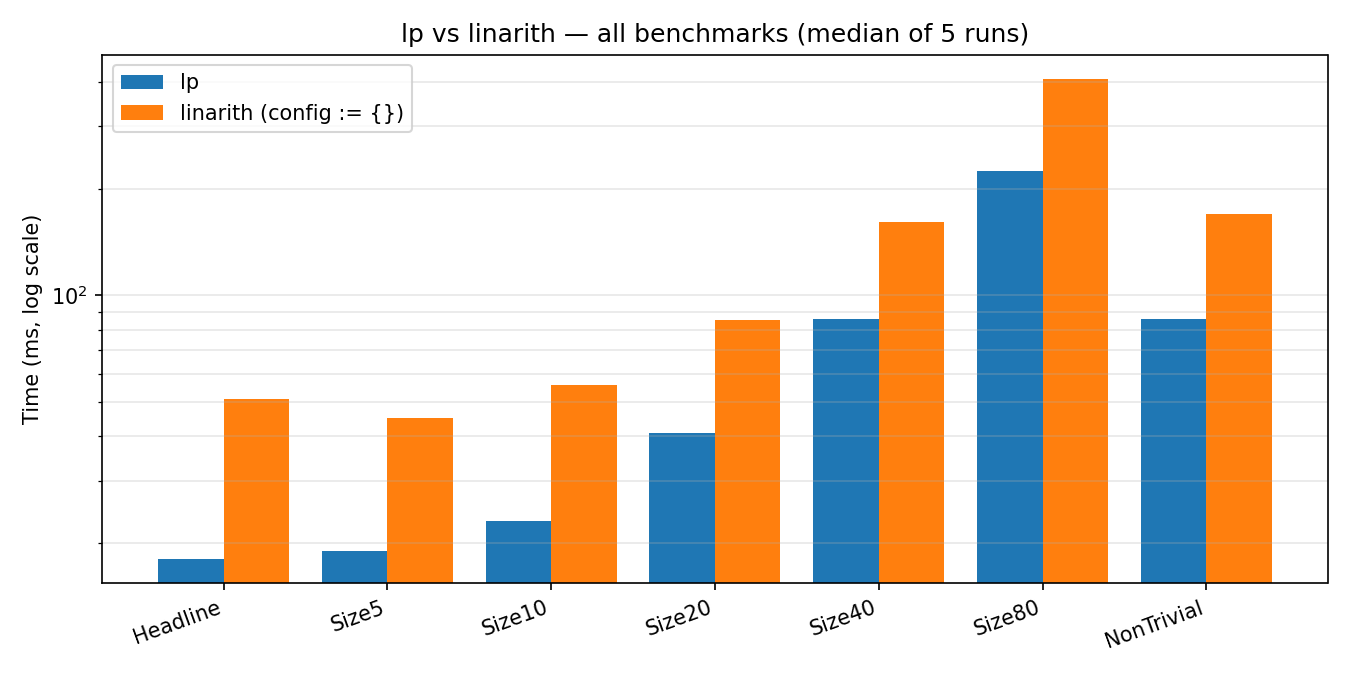
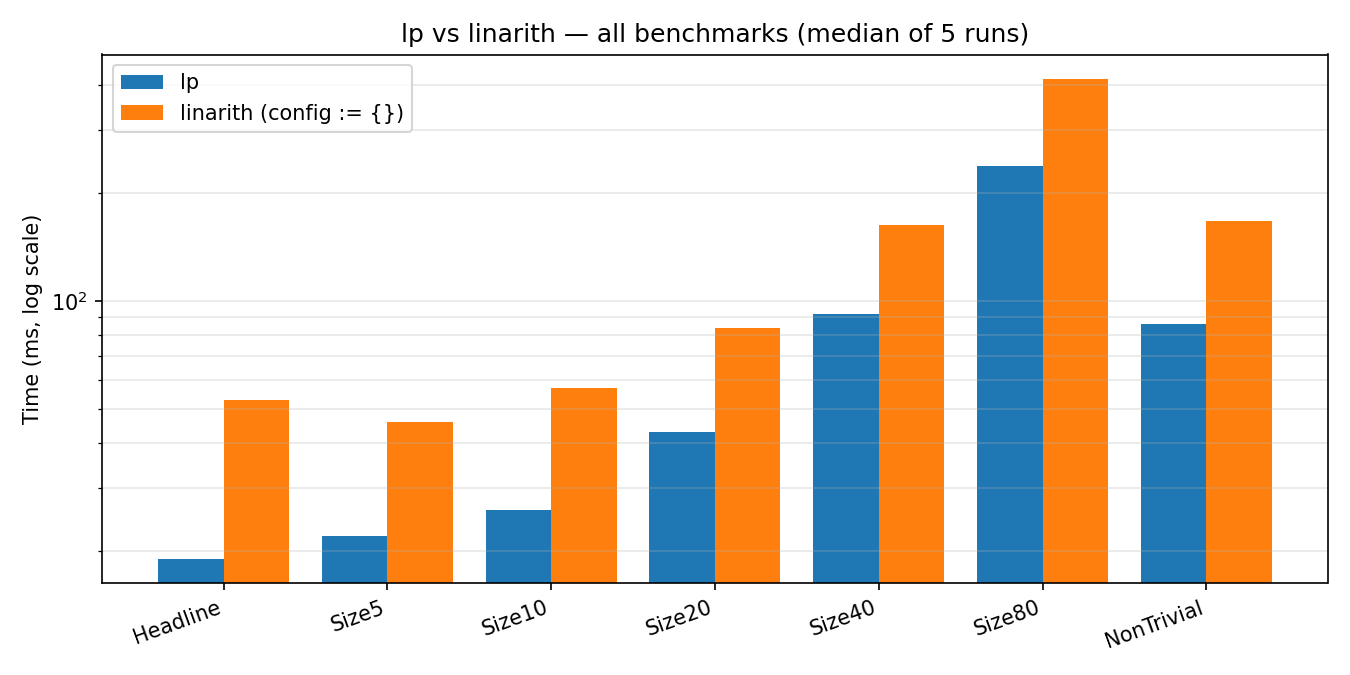
feat: run the benchmark on the carrier `lp` engine (v4.31) + multi-carrier sweep (#1)
Re-pin `Soplex` to the carrier-parametrized `lp` engine ported to Lean
v4.31.0-rc1 (kim-em/soplex `bump-v4.31-carrier`, bundling kim-em/lp-tactic
`bump-v4.31-carrier`), so both benchmark families run on a single toolchain and
engine. The engine compiled on v4.31 with no source changes.

Refresh the `Rat` lp-vs-linarith numbers (unchanged within noise — the carrier
engine keeps `Rat`'s `Q` fast-path) and add a per-carrier box-LP sweep
(`Rat`/`Real`/`Int`/`Dyadic`/`Nat`) on identical 2n-row goals. The native
computable carriers (`Nat`, `Int`, `Dyadic`) are faster than the hand-optimized
`Rat` baseline (0.65-0.90x) — they render coefficients as their own
kernel-reducible literals, so closed leaf arithmetic closes by `Eq.refl` with no
proof term; `Nat` is fastest. `Real` pays a flat ~1.6-2.3x (it is non-computable,
so coefficients render as `ofRat r` and each needs a faithfulness bridge proof).

Adds the per-carrier `bench/Bench*.lean` sources, `results/multicarrier5.csv`,
three multi-carrier graphs, `scripts/plot_multicarrier.py`, and a README section;
regenerates the lp-vs-linarith graphs from the refreshed `median5.csv`.

diff --git a/scripts/plot_multicarrier.py b/scripts/plot_multicarrier.py
@@ -1,0 +1,113 @@
+#!/usr/bin/env python3
+"""Plot the multi-carrier `lp` box-LP sweep (v4.31.0-rc1 unified CarrierMethods engine).
+
+Input: results/multicarrier5.csv  (carrier,size,lp_ms,linarith_ms)
+Outputs:
+    results/multicarrier-sweep.png  — log-log size vs ms, one line per carrier + linarith
+    results/multicarrier-bars.png   — grouped bars: lp ms per carrier per size
+    results/multicarrier-ratio.png  — grouped bars: carrier/Rat ms ratio per size
+"""
+import csv
+from pathlib import Path
+import matplotlib.pyplot as plt
+
+ROOT = Path(__file__).resolve().parent.parent
+RESULTS = ROOT / "results"
+CSV_PATH = RESULTS / "multicarrier5.csv"
+
+# Carrier draw order + colours (Rat is the baseline).
+CARRIERS = ["Nat", "Int", "Dyadic", "Rat", "Real"]
+COLORS = {"Nat": "#2ca02c", "Int": "#1f77b4", "Dyadic": "#17becf",
+          "Rat": "#000000", "Real": "#d62728", "linarith": "#7f7f7f"}
+KIND = {"Nat": "comm semiring (no neg)", "Int": "comm ring", "Dyadic": "comm ring (no inv)",
+        "Rat": "field (Q fast-path)", "Real": "field (ofRat bridge)"}
+
+
+def load():
+    lp = {c: {} for c in CARRIERS}
+    lin = {}
+    sizes = set()
+    with CSV_PATH.open() as f:
+        rd = csv.DictReader(f)
+        for r in rd:
+            c, n = r["carrier"], int(r["size"])
+            sizes.add(n)
+            if r["lp_ms"]:
+                lp.setdefault(c, {})[n] = float(r["lp_ms"])
+            if r["linarith_ms"]:
+                lin[n] = float(r["linarith_ms"])
+    return lp, lin, sorted(sizes)
+
+
+def plot_sweep(lp, lin, sizes):
+    plt.figure(figsize=(8, 5.5))
+    for c in CARRIERS:
+        ys = [lp[c][n] for n in sizes]
+        plt.plot(sizes, ys, "o-", color=COLORS[c], linewidth=2,
+                 label=f"lp / {c} — {KIND[c]}")
+    if lin:
+        plt.plot(sizes, [lin[n] for n in sizes], "s--", color=COLORS["linarith"],
+                 linewidth=1.6, label="linarith / Rat")
+    plt.xscale("log"); plt.yscale("log")
+    plt.xticks(sizes, [str(s) for s in sizes])
+    plt.gca().get_xaxis().set_major_formatter(plt.matplotlib.ticker.ScalarFormatter())
+    plt.xlabel("box-LP size n  (variables; 2n constraints)")
+    plt.ylabel("tactic execution (ms, median-of-5)")
+    plt.title("lp across carriers — one unified engine  (Lean v4.31.0-rc1)")
+    plt.legend(fontsize=8, loc="upper left")
+    plt.grid(True, which="both", alpha=0.3)
+    plt.tight_layout()
+    out = RESULTS / "multicarrier-sweep.png"
+    plt.savefig(out, dpi=130); plt.close()
+    print("wrote", out)
+
+
+def plot_bars(lp, sizes):
+    import numpy as np
+    plt.figure(figsize=(9, 5.5))
+    x = np.arange(len(sizes))
+    w = 0.16
+    for i, c in enumerate(CARRIERS):
+        ys = [lp[c][n] for n in sizes]
+        plt.bar(x + (i - 2) * w, ys, w, color=COLORS[c], label=c)
+    plt.xticks(x, [f"Size{n}" for n in sizes])
+    plt.ylabel("lp tactic execution (ms, median-of-5)")
+    plt.title("lp per-carrier box-LP timing  (Lean v4.31.0-rc1)")
+    plt.legend(fontsize=9)
+    plt.grid(True, axis="y", alpha=0.3)
+    plt.tight_layout()
+    out = RESULTS / "multicarrier-bars.png"
+    plt.savefig(out, dpi=130); plt.close()
+    print("wrote", out)
+
+
+def plot_ratio(lp, sizes):
+    import numpy as np
+    others = ["Nat", "Int", "Dyadic", "Real"]
+    plt.figure(figsize=(9, 5.5))
+    x = np.arange(len(sizes))
+    w = 0.2
+    for i, c in enumerate(others):
+        ys = [lp[c][n] / lp["Rat"][n] for n in sizes]
+        plt.bar(x + (i - 1.5) * w, ys, w, color=COLORS[c], label=c)
+    plt.axhline(1.0, color="black", linewidth=1, linestyle="--", label="Rat baseline")
+    plt.xticks(x, [f"Size{n}" for n in sizes])
+    plt.ylabel("lp time relative to Rat  (lower = faster)")
+    plt.title("Native computable carriers beat the Rat baseline; Real pays the ofRat bridge")
+    plt.legend(fontsize=9)
+    plt.grid(True, axis="y", alpha=0.3)
+    plt.tight_layout()
+    out = RESULTS / "multicarrier-ratio.png"
+    plt.savefig(out, dpi=130); plt.close()
+    print("wrote", out)
+
+
+def main():
+    lp, lin, sizes = load()
+    plot_sweep(lp, lin, sizes)
+    plot_bars(lp, sizes)
+    plot_ratio(lp, sizes)
+
+
+if __name__ == "__main__":
+    main()

diff --git a/README.md b/README.md
@@ -11,7 +11,8 @@ for the lp announcement post.
 
 ## Versions pinned
 
-- `Soplex`: kim-em/soplex `d1b3dad` (`bump-v4.31.0-rc1` branch)
+- `Soplex`: kim-em/soplex `b22aceb` (`main`), bundling the
+  carrier-parametrized `lp` engine (kim-em/lp-tactic `main`)
 - `Mathlib`: kim-em/mathlib4 `7a00f329` (linarith with the syntactic
   atom-cache improvement from
   [PR #40110](https://github.com/leanprover-community/mathlib4/pull/40110))
@@ -67,21 +68,23 @@ elaboration overhead (cache warmth, etc.) is matched between them.
 
 ## Results
 
-Median of 5 runs, M1 MacBook, `v4.31.0-rc1`, soplex `d1b3dad`, mathlib at
-PR #40110 head:
+Median of 5 runs, M1 MacBook, `v4.31.0-rc1`, soplex `b22aceb` (main, carrier engine),
+mathlib at PR #40110 head:
 
 | Benchmark   | `by lp` | `by linarith (config := {})` | ratio (lin/lp) |
 |-------------|--------:|-----------------------------:|---------------:|
-| Headline    |   18 ms |                        51 ms |          2.83× |
-| Size5       |   19 ms |                        45 ms |          2.37× |
-| Size10      |   23 ms |                        56 ms |          2.43× |
-| Size20      |   41 ms |                        85 ms |          2.07× |
-| Size40      |   86 ms |                       161 ms |          1.87× |
-| Size80      |  225 ms |                       409 ms |          1.82× |
-| NonTrivial  |   86 ms |                       170 ms |          1.98× |
+| Headline    |   19 ms |                        53 ms |          2.79× |
+| Size5       |   22 ms |                        46 ms |          2.09× |
+| Size10      |   26 ms |                        57 ms |          2.19× |
+| Size20      |   43 ms |                        84 ms |          1.95× |
+| Size40      |   92 ms |                       163 ms |          1.77× |
+| Size80      |  237 ms |                       417 ms |          1.76× |
+| NonTrivial  |   86 ms |                       167 ms |          1.94× |
 
-Geometric mean speedup: **~2.2×** in lp's favour. The lead is widest on
-the small/headline problems (2.8×) and narrows toward 1.8× at n=80.
+Geometric mean speedup: **~2.0×** in lp's favour. The lead is widest on
+the small/headline problems (2.8×) and narrows toward 1.8× at n=80. `lp` runs
+on the carrier-parametrized engine here; its `Rat` path keeps the original `Q`
+fast-path, so these numbers match the pre-generalization engine within noise.
 
 ![Size sweep, log-log](results/size-sweep.png)
 
@@ -90,6 +93,55 @@ the small/headline problems (2.8×) and narrows toward 1.8× at n=80.
 ![Speedup ratios](results/ratios.png)
 
 Reproduce: `./scripts/bench.sh 5 && python3 scripts/plot.py`.
+
+## Multi-carrier sweep (unified `CarrierMethods` engine)
+
+The `lp` tactic was generalized from a `Rat`-only discharger to a single
+carrier-parametrized engine that proves the **same ℚ-Farkas implications**
+over a family of ordered carriers: `Rat` (field), `Real` (field, via Mathlib),
+`Int` (comm ring), `Dyadic` (comm ring, no inverses), and `Nat` (comm
+semiring, no negation). The ℚ LP sent to SoPlex is identical across carriers;
+only the reconstructed proof term differs. (No integer-cut/integrality
+reasoning — that stays with `omega`/`cutsat`; `lp` proves ℚ-valid implications
+only.)
+
+The key performance question: does generalization cost the `Rat` baseline
+anything, and how do the native computable carriers compare? Same box-LP
+shape as `Size{5..80}` above, identical 2n-row structure across carriers,
+median-of-5, same `v4.31.0-rc1` toolchain and carrier engine as the
+`lp`-vs-`linarith` table above:
+
+| size | Nat | Int | Dyadic | Rat | Real | linarith (Rat) |
+|-----:|----:|----:|-------:|----:|-----:|---------------:|
+| 5    | 13  | 15  | 14     | 20  | 35   | 45 |
+| 10   | 12  | 13  | 14     | 17  | 39   | 39 |
+| 20   | 25  | 27  | 28     | 35  | 73   | 66 |
+| 40   | 64  | 69  | 69     | 86  | 153  | 140 |
+| 80   | 190 | 205 | 207    | 229 | 381  | 380 |
+
+Reading:
+
+- **The native computable carriers (`Nat`, `Int`, `Dyadic`) are *faster*
+  than the hand-optimized `Rat` baseline** — 0.65–0.90×. They render
+  coefficients as their own kernel-reducible literals, so per-leaf
+  arithmetic closes by `Eq.refl` with no proof term at all; `Nat` is fastest
+  (most reducible literals). Generalization didn't regress `Rat` — `Rat`
+  keeps its original `Q`-literal fast-path unchanged.
+- **`Real` pays a flat ~1.6–2.3× over `Rat`** — it is non-computable, so
+  coefficients render as `ofRat r` (not defeq to a user literal) and each
+  needs a `userLit = ofRat r` bridge proof. This is inherent to an abstract
+  field and is the *only* carrier that pays it.
+- `lp` still beats `linarith` ~2× on the `Rat` column (the headline story
+  above), and every native carrier widens that lead.
+
+![Multi-carrier sweep, log-log](results/multicarrier-sweep.png)
+
+![Per-carrier box-LP timing](results/multicarrier-bars.png)
+
+![Carrier time relative to Rat](results/multicarrier-ratio.png)
+
+Reproduce: the per-carrier `bench/Bench*.lean` files (box-LP over each carrier,
+`import Soplex`) run median-of-5, then `python3 scripts/plot_multicarrier.py`.
 
 ## Why `linarith (config := {})` and not bare `linarith`?
 
